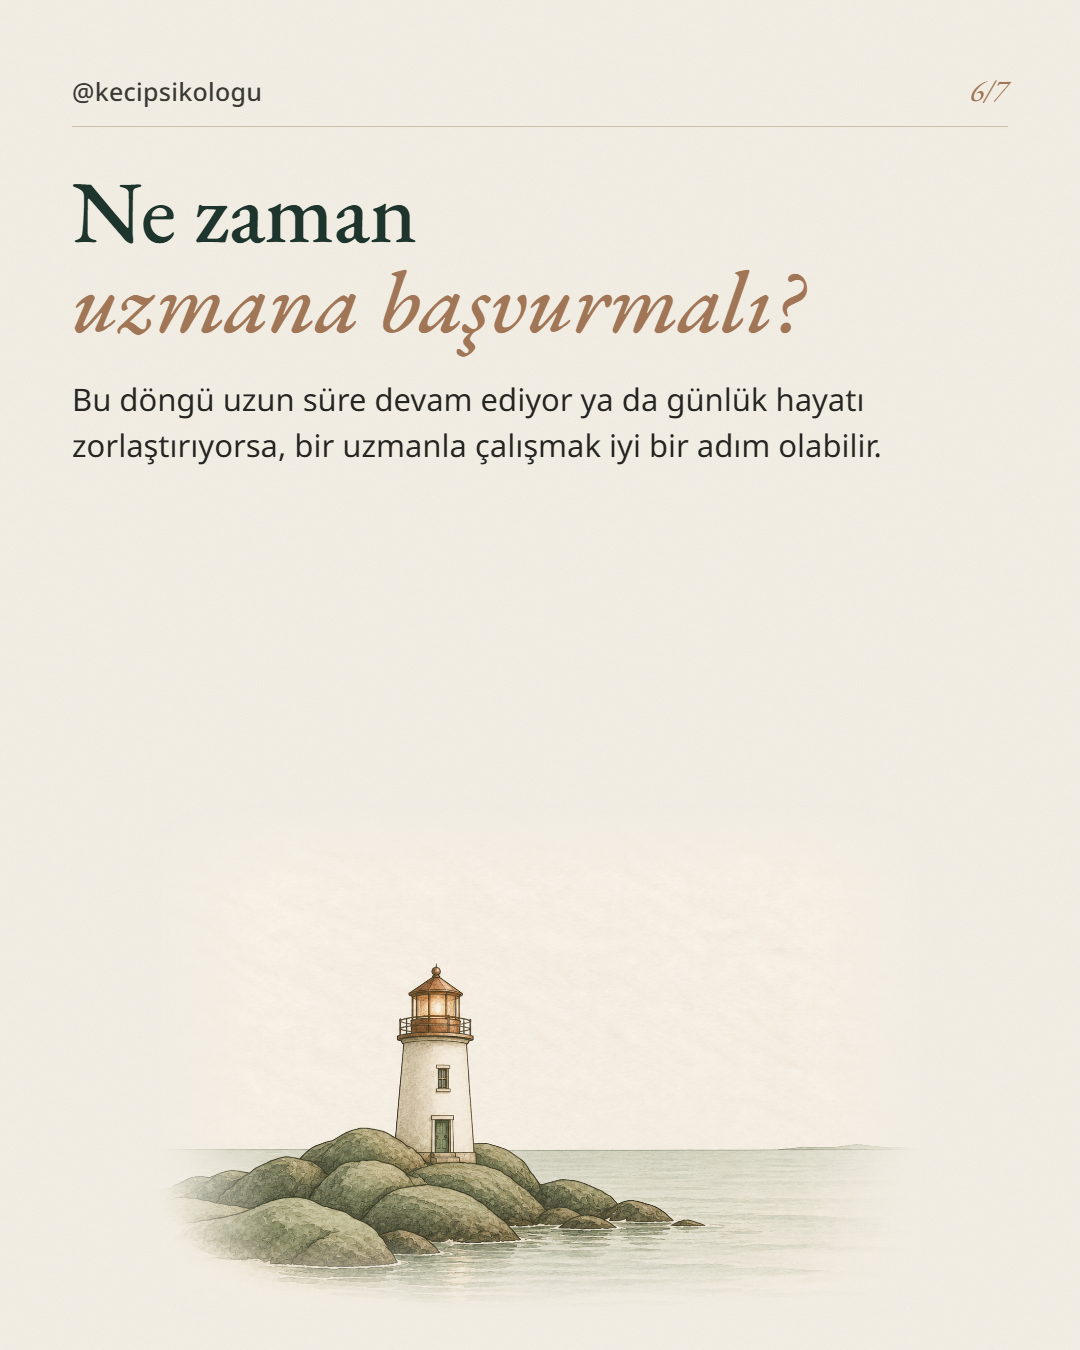
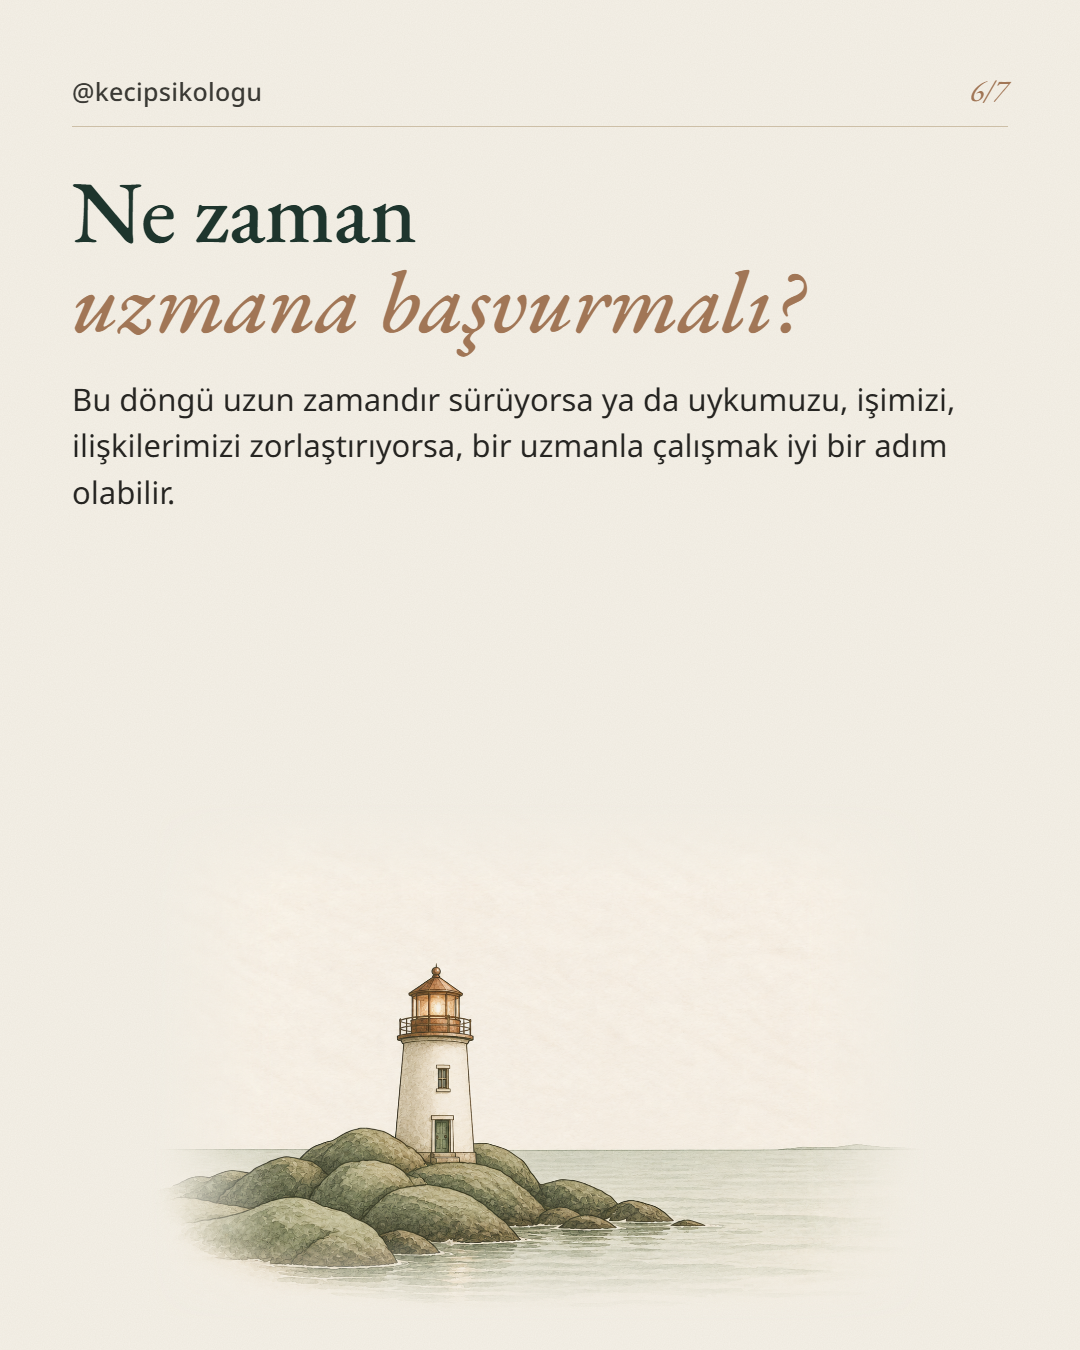
fix(posts): 18 Oct voice rewrite, research sentences in operator voice
Claude-Session: https://claude.ai/code/session_01YRjYDNXAqdazCHQBaajULc

Changed region(s): [[0.0611, 0.28, 0.8861, 0.3733]]

diff --git a/posts/2026-10-18-ruminasyon/caption.md b/posts/2026-10-18-ruminasyon/caption.md
@@ -1,6 +1,6 @@
-Aynı düşünceye dönmek, bir şey yapıyormuş gibi gelebilir.
+Aynı konuşmayı kafamızda tekrar tekrar kurmak insanı yerinden kıpırdatmadan yorar.
 
-Bu döngü uzun süre devam ediyor ya da günlük hayatı zorlaştırıyorsa, bir uzmanla çalışmak iyi bir adım olabilir.
+Böyle anlarda bir an durup soralım: Bu düşünce beni bir adım ileri götürdü mü, yoksa yine aynı yere mi getirdi?
 
 Bu düşünce döngüsünü bir uzmanla birlikte ele almak isterseniz, psikolojik danışmanlık hizmeti için profildeki bağlantıdan ulaşabilirsiniz. Ön görüşme formu onourimpram.com adresinde.
 
